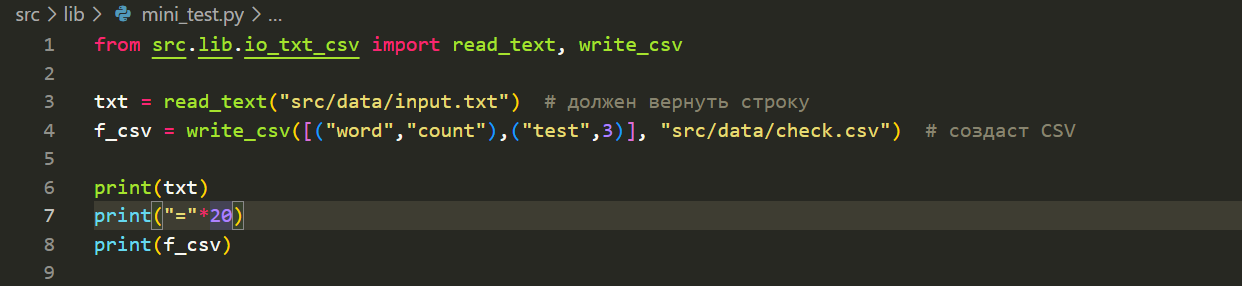
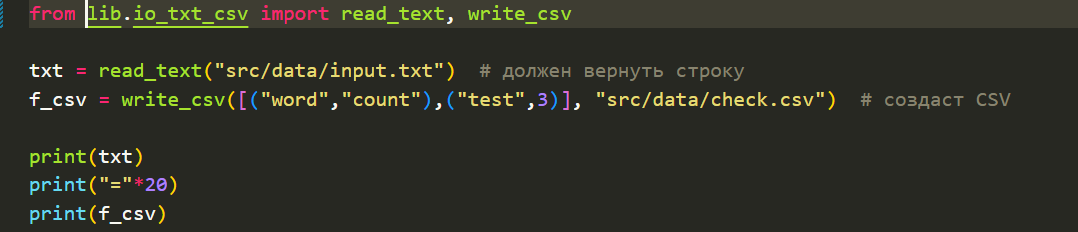
закончила делать 3ю лабу

diff --git a/src/lib/mini_test.py b/src/lib/mini_test.py
@@ -1,4 +1,4 @@
-from src.lib.io_txt_csv import read_text, write_csv
+from lib.io_txt_csv import read_text, write_csv
 
 txt = read_text("src/data/input.txt")  # должен вернуть строку
 f_csv = write_csv([("word","count"),("test",3)], "src/data/check.csv")  # создаст CSV
